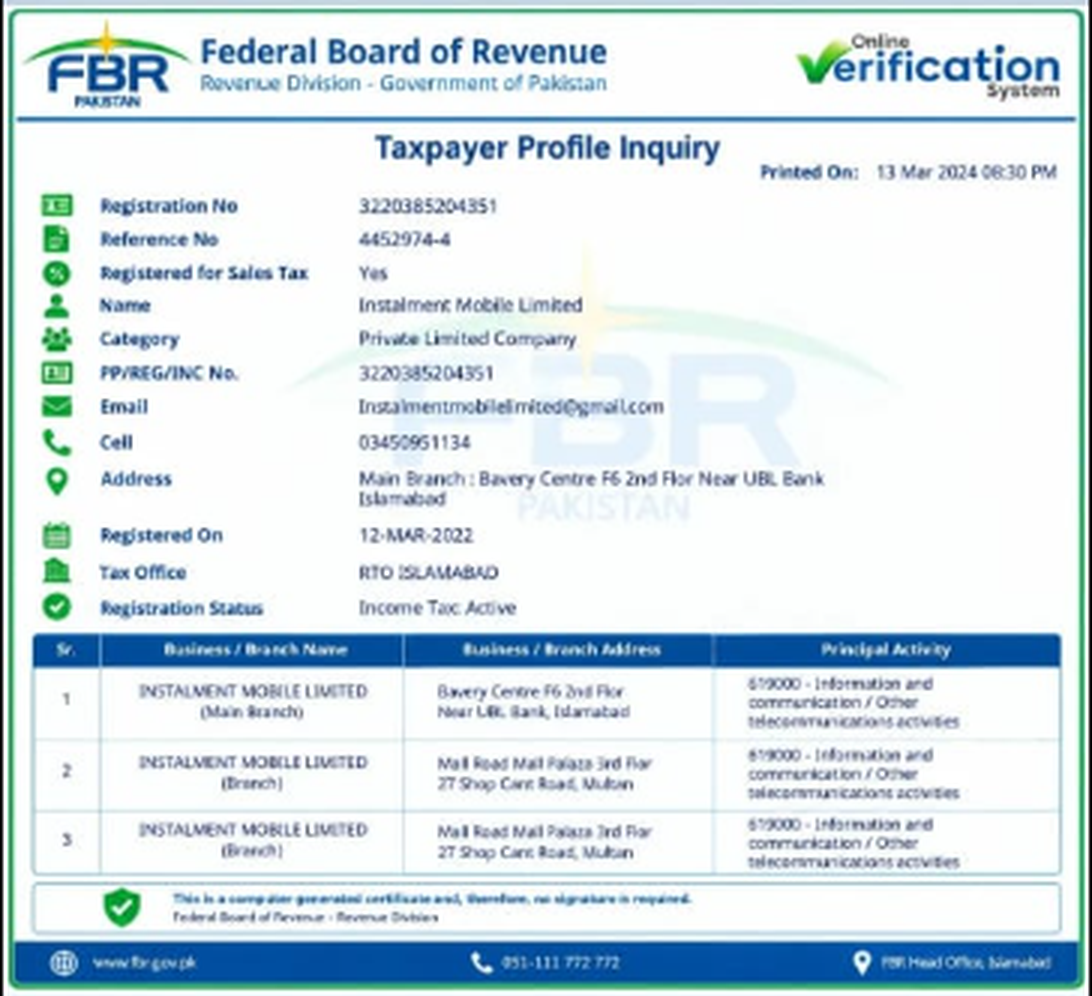
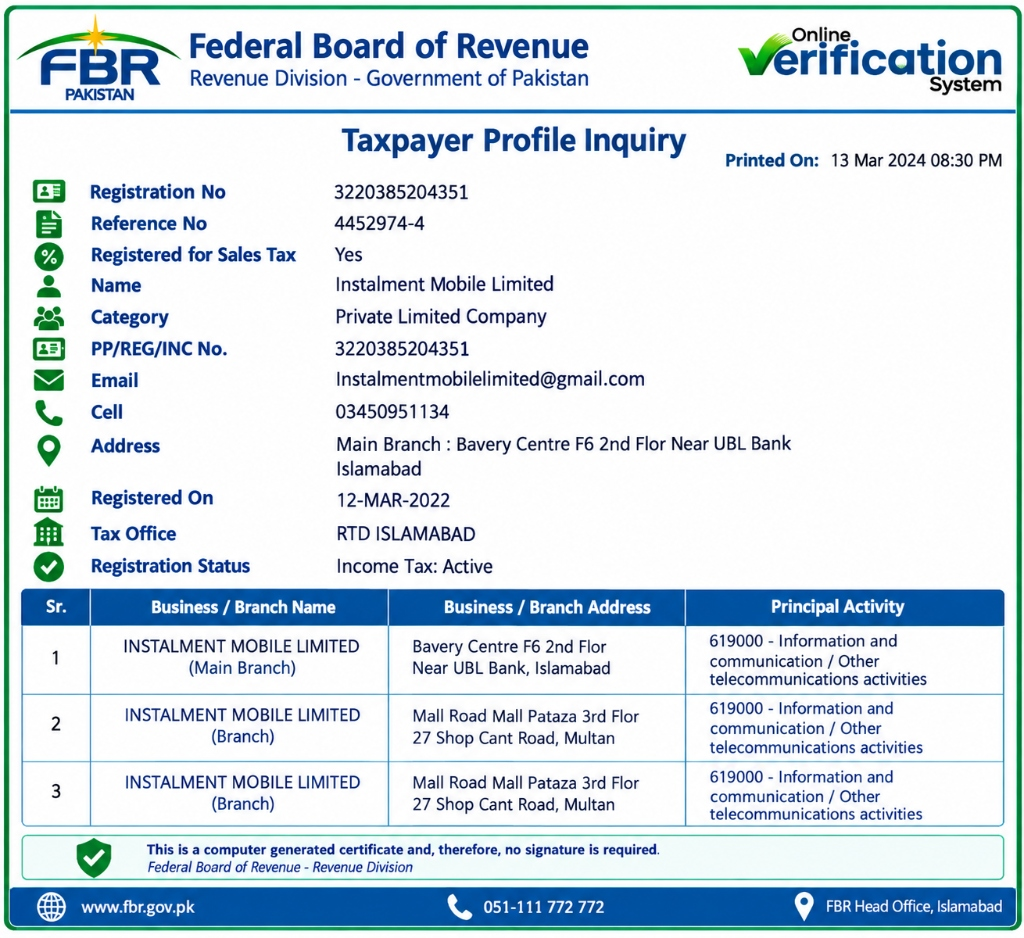
Update high-quality FBR certificate, remove arrow buttons, fix mobile zoom and text line breaking

Changed region(s): [[0.0, 0.0, 1.0, 1.0]]

diff --git a/src/components/steps/Step0Landing.tsx b/src/components/steps/Step0Landing.tsx
@@ -8,7 +8,6 @@ import {
   Headphones, 
   Award, 
   ChevronRight, 
-  ChevronLeft,
   Sparkles, 
   CheckCircle2, 
   Landmark,
@@ -121,16 +120,6 @@ export const Step0Landing: React.FC = () => {
                 <span>Dreams Now</span>
                 <span>Within Reach ♡</span>
               </div>
-
-              {/* Slider Navigation Controls (Matching reference) */}
-              <button 
-                type="button" 
-                className="hero-arrow-btn hero-arrow-left"
-                onClick={() => setHeroSlide((prev) => (prev === 0 ? 2 : prev - 1))}
-                aria-label="Previous Slide"
-              >
-                <ChevronLeft size={16} />
-              </button>
             </div>
           </div>
 
@@ -194,16 +183,6 @@ export const Step0Landing: React.FC = () => {
                 <span>Bigger Dreams</span>
                 <span>Smarter Choices</span>
               </div>
-
-              {/* Right Arrow Navigation */}
-              <button 
-                type="button" 
-                className="hero-arrow-btn hero-arrow-right"
-                onClick={() => setHeroSlide((prev) => (prev === 2 ? 0 : prev + 1))}
-                aria-label="Next Slide"
-              >
-                <ChevronRight size={16} />
-              </button>
             </div>
 
             {/* Pagination Indicator Dots */}
@@ -521,10 +500,12 @@ export const Step0Landing: React.FC = () => {
 
           {/* Secure Trust Strip with FBR Quick Verification Button */}
           <div className="featured-islamic-partner">
-            <div className="secure-badge-box" style={{ width: '100%', justifyContent: 'space-between', flexWrap: 'wrap', gap: 8 }}>
-              <div style={{ display: 'flex', alignItems: 'center', gap: 6 }}>
-                <ShieldCheck size={15} color="#34d399" />
-                <span>100% Secure &amp; Verified Official Banking Channels • Shariah Compliant Options</span>
+            <div className="secure-badge-box">
+              <div className="secure-badge-content">
+                <ShieldCheck size={16} color="#34d399" style={{ flexShrink: 0 }} />
+                <span className="secure-badge-text">
+                  100% Secure &amp; Verified Official Banking Channels • Shariah Compliant Options
+                </span>
               </div>
 
               <button 

diff --git a/src/app/globals.css b/src/app/globals.css
@@ -33,11 +33,22 @@
   padding: 0;
 }
 
+html {
+  -webkit-text-size-adjust: 100%;
+  text-size-adjust: 100%;
+  width: 100%;
+  max-width: 100%;
+  overflow-x: hidden;
+  touch-action: pan-y;
+}
+
 body {
   font-family: 'Plus Jakarta Sans', -apple-system, BlinkMacSystemFont, sans-serif;
   background-color: var(--bg-primary);
   color: var(--text-primary);
   min-height: 100vh;
+  width: 100%;
+  max-width: 100vw;
   display: flex;
   flex-direction: column;
   align-items: center;
@@ -47,6 +58,17 @@ body {
     radial-gradient(circle at 10% 45%, rgba(212, 175, 55, 0.05), transparent 35%),
     radial-gradient(circle at 90% 75%, rgba(212, 175, 55, 0.05), transparent 35%);
   overflow-x: hidden;
+  touch-action: pan-y;
+  position: relative;
+}
+
+/* Prevent auto-zooming on focus in mobile browsers (iOS Safari / Chrome) */
+@media screen and (max-width: 768px) {
+  input,
+  select,
+  textarea {
+    font-size: 16px !important;
+  }
 }
 
 /* Script Font for 'Your Dream Phone' */
@@ -835,17 +857,56 @@ body {
 }
 
 .secure-badge-box {
-  background: rgba(17, 18, 25, 0.8);
+  background: rgba(17, 18, 25, 0.88);
   border: 1px solid rgba(255, 255, 255, 0.15);
-  border-radius: 10px;
-  padding: 8px 12px;
+  border-radius: 12px;
+  padding: 10px 14px;
   display: flex;
   align-items: center;
-  gap: 6px;
-  font-size: 9px;
-  font-weight: 700;
+  justify-content: space-between;
+  flex-wrap: wrap;
+  gap: 10px;
+  width: 100%;
+  max-width: 100%;
+  box-sizing: border-box;
+}
+
+.secure-badge-content {
+  display: flex;
+  align-items: center;
+  gap: 8px;
+  flex: 1 1 200px;
+  min-width: 0;
+}
+
+.secure-badge-text {
+  font-size: 10.5px;
+  font-weight: 600;
   color: #cbd5e1;
-  white-space: nowrap;
+  white-space: normal;
+  word-break: break-word;
+  overflow-wrap: break-word;
+  line-height: 1.4;
+}
+
+@media (max-width: 480px) {
+  .secure-badge-box {
+    flex-direction: column;
+    align-items: stretch;
+    padding: 10px 12px;
+    gap: 8px;
+  }
+  .secure-badge-content {
+    align-items: flex-start;
+  }
+  .secure-badge-text {
+    font-size: 10px;
+  }
+  .fbr-inline-cert-btn {
+    width: 100%;
+    justify-content: center;
+    padding: 6px 12px;
+  }
 }
 
 /* ========================================================

diff --git a/src/components/FbrCertificateModal.tsx b/src/components/FbrCertificateModal.tsx
@@ -114,11 +114,19 @@ export const FbrCertificateModal: React.FC<FbrCertificateModalProps> = ({ isOpen
 
         {/* Certificate Image Frame */}
         <div className="fbr-cert-image-frame">
-          <img 
-            src="/fbr-taxpayer-certificate.png" 
-            alt="FBR Taxpayer Profile Inquiry Certificate for Instalment Mobile Limited"
-            className="fbr-cert-img"
-          />
+          <a 
+            href="/fbr-taxpayer-certificate.png" 
+            target="_blank" 
+            rel="noopener noreferrer" 
+            title="Tap to view full resolution certificate"
+            style={{ display: 'flex', justifyContent: 'center', width: '100%', cursor: 'zoom-in' }}
+          >
+            <img 
+              src="/fbr-taxpayer-certificate.png" 
+              alt="FBR Taxpayer Profile Inquiry Certificate for Instalment Mobile Limited"
+              className="fbr-cert-img"
+            />
+          </a>
         </div>
 
         {/* Footer Actions */}

diff --git a/src/app/layout.tsx b/src/app/layout.tsx
@@ -1,6 +1,14 @@
-import type { Metadata } from 'next';
+import type { Metadata, Viewport } from 'next';
 import './globals.css';
 import { WizardProvider } from '../context/WizardContext';
+
+export const viewport: Viewport = {
+  width: 'device-width',
+  initialScale: 1,
+  maximumScale: 1,
+  userScalable: false,
+  viewportFit: 'cover',
+};
 
 export const metadata: Metadata = {
   title: 'Instalment Mobile Limited (IML) — Official iPhone Installment Plans',
